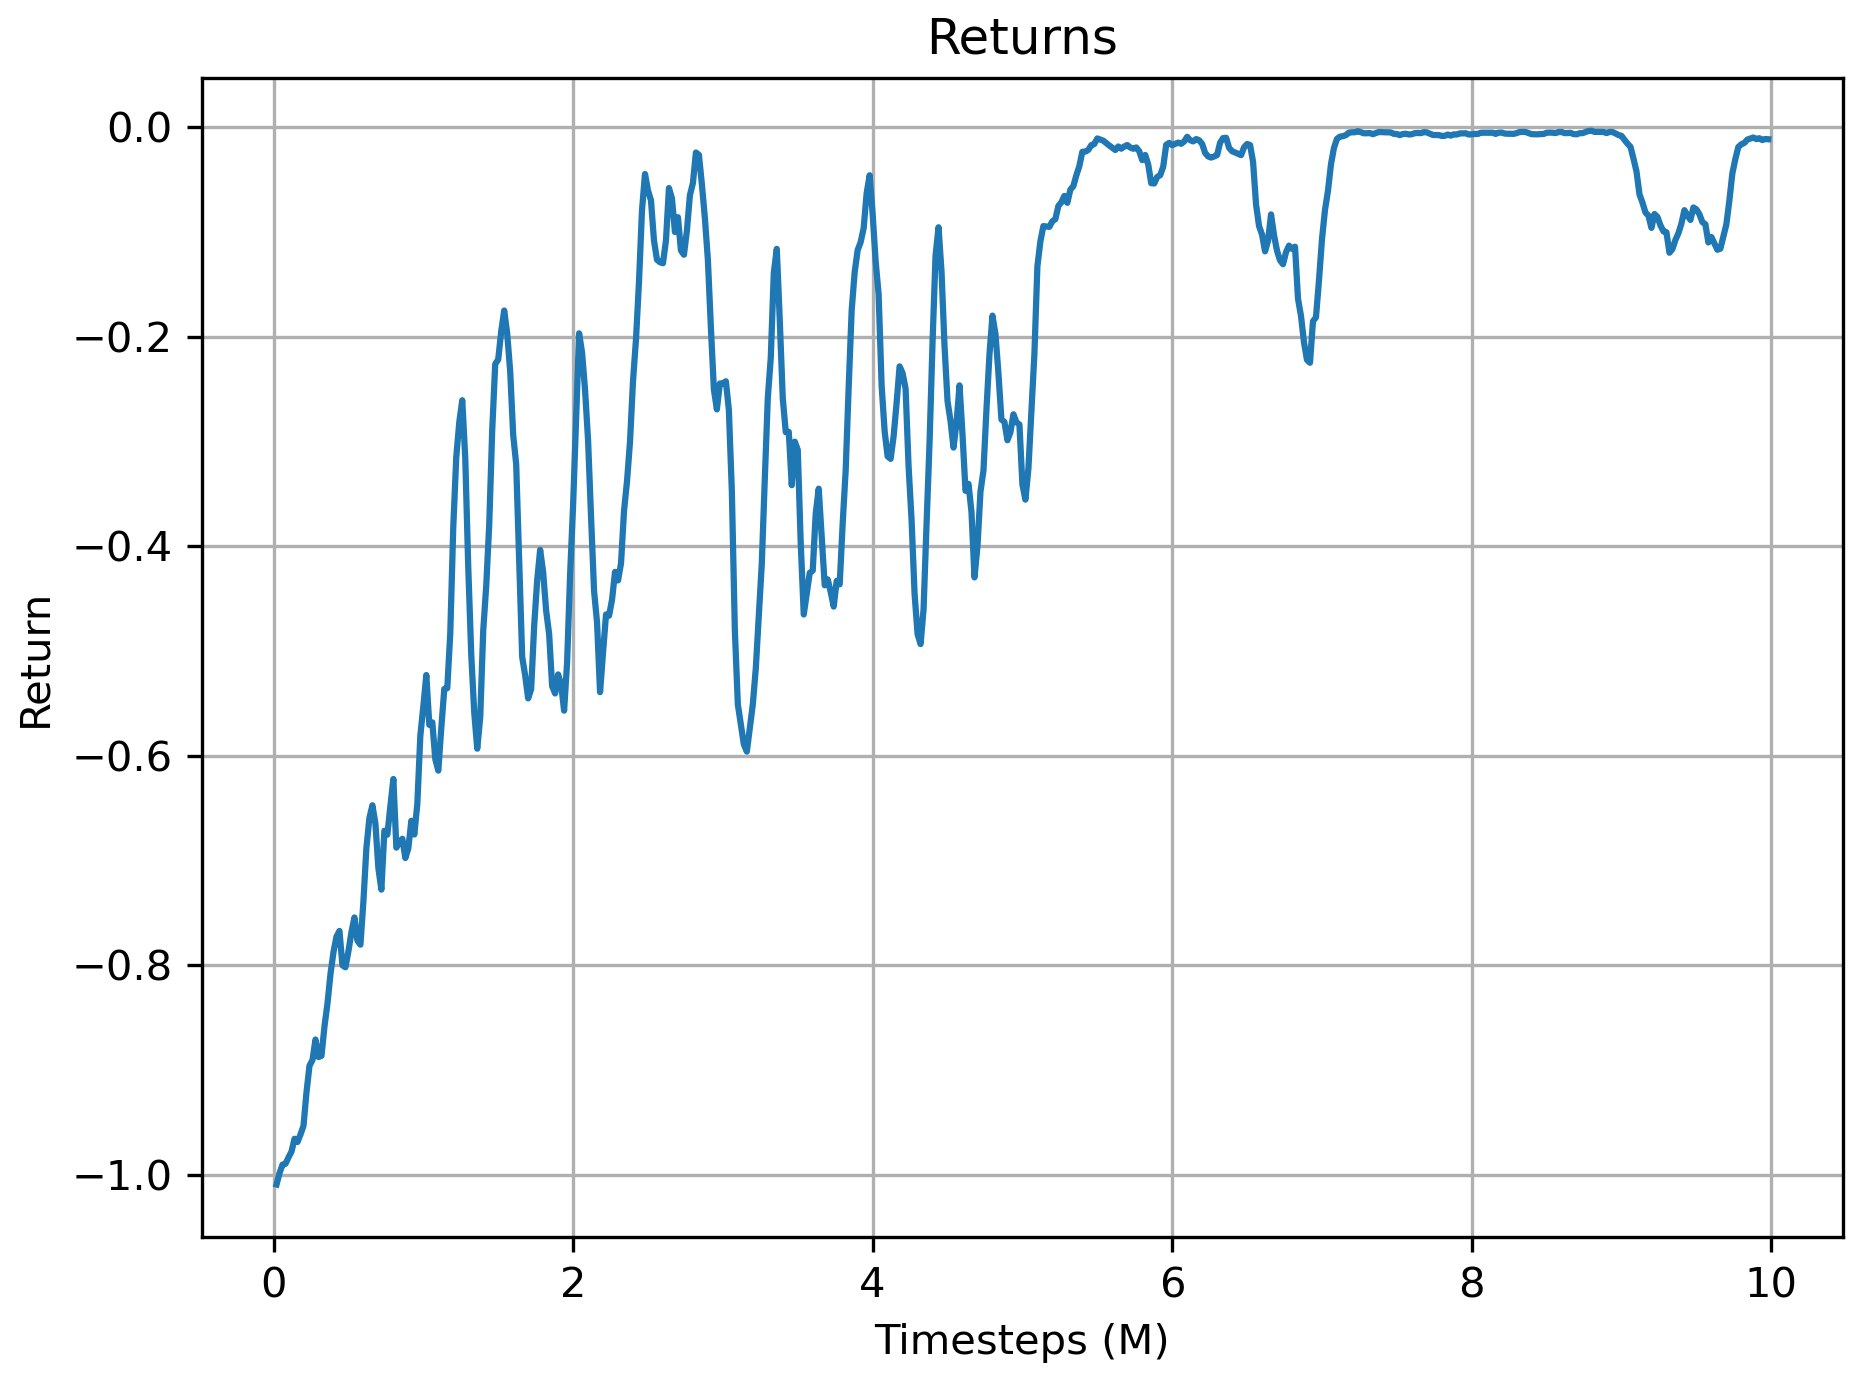
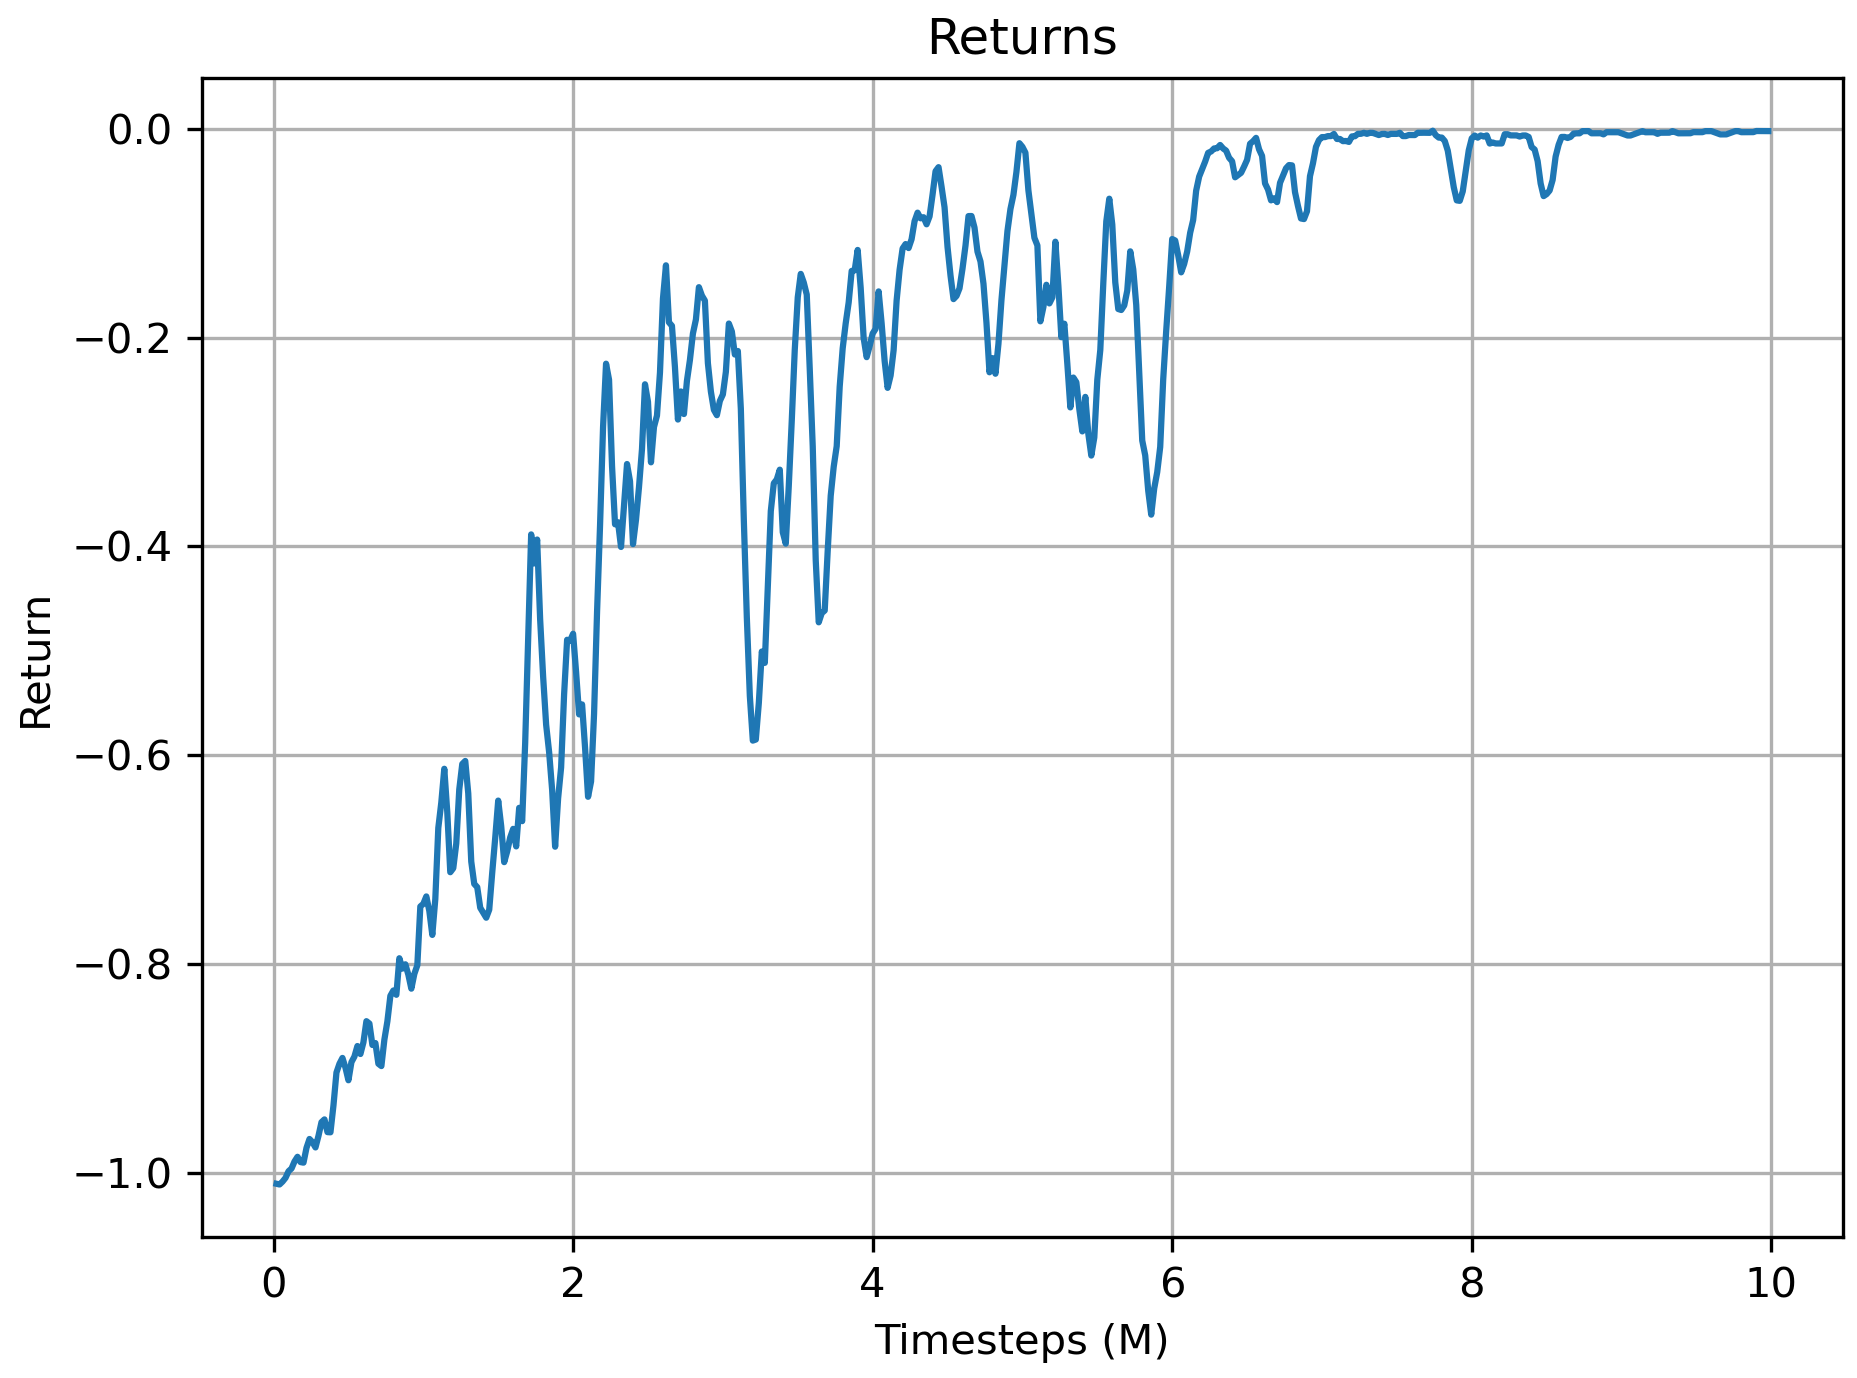
rerun q-learning use bin=40

diff --git a/q_learning_exp.py b/q_learning_exp.py
@@ -157,19 +157,19 @@ if __name__ == "__main__":
     # play_env.close()
 
     # ========= 1⃣ baseline：不同alpha =========
-    for alpha in [0.1, 0.07, 0.05, 0.03, 0.01]:
-        run_single_experiment(
-            alpha_schedule=False,
-            epsilon_schedule=False,
-            alpha_value=alpha
-        )
+    # for alpha in [0.1, 0.07, 0.05, 0.03, 0.01]:
+    #     run_single_experiment(
+    #         alpha_schedule=False,
+    #         epsilon_schedule=False,
+    #         alpha_value=alpha
+    #     )
 
-    # ========= 2⃣ alpha schedule =========
-    run_single_experiment(
-        alpha_schedule=True,
-        epsilon_schedule=False,
-        alpha_value=None
-    )
+    # # ========= 2⃣ alpha schedule =========
+    # run_single_experiment(
+    #     alpha_schedule=True,
+    #     epsilon_schedule=False,
+    #     alpha_value=None
+    # )
 
     # ========= 3⃣ epsilon+alpha schedule =========
     run_single_experiment(
@@ -179,8 +179,8 @@ if __name__ == "__main__":
     )
 
     # ========= epsilon schedule =========
-    run_single_experiment(
-        alpha_schedule=False,
-        epsilon_schedule=True,
-        alpha_value=None
-    )
+    # run_single_experiment(
+    #     alpha_schedule=False,
+    #     epsilon_schedule=True,
+    #     alpha_value=None
+    # )

diff --git a/hyperparameters.py b/hyperparameters.py
@@ -4,7 +4,7 @@ MAX_EPISODE_STEPS = 100
 NUM_EPISODES_EVAL = 1000 # Number of episodes to average the returns over
 
 # STATE SPACE PARAMETERS
-N_BINS = 30
+N_BINS = 40
 X_LIMIT = 2.4
 THETA_LIMIT = np.deg2rad(25) #12
 X_VEL_LIMIT = 4.8
